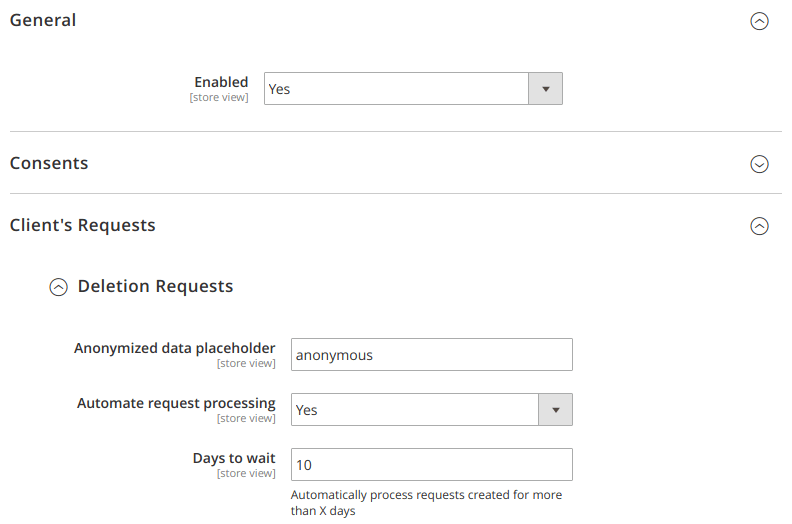
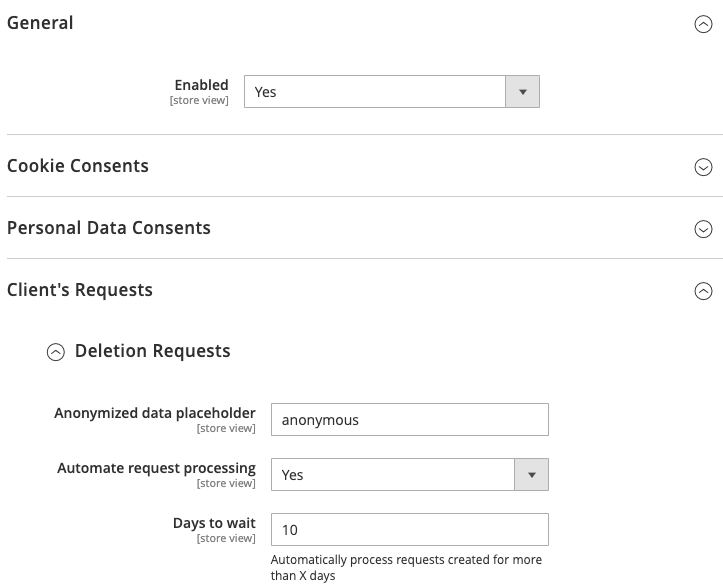
GDPR M2: docs updated

diff --git a/m2/extensions/gdpr/configuration.md b/m2/extensions/gdpr/configuration.md
@@ -20,7 +20,35 @@ Option      | Description
 ------------|------------
 Enabled     | Allows to enable/disable GDPR per store view
 
-### Consents section
+### Cookie Consent section
+
+![Cookie consents section](/images/m2/gdpr/configuration/cookie-consents.png)
+
+Option          | Description
+----------------|------------
+Enabled         | Allows to enable/disable cookie bar and cookie settings page.
+Lifetime        | How many days should the cookie store information about visitor's cookie settings.
+**Cookie Bar**  |
+Display Mode    | Select display mode for cookie bar. See details below the table.
+Content         | HTML to use in cookie bar.
+**Cookie Settings Page** |
+URL             | URL to [cookie settings page](/m2/extensions/gdpr/cookie-settings/)
+Content         | HTML code with a intro text for cookie settings page.
+
+#### Cookie bar display modes
+
+There are two display modes available to choose:
+
+ -  Minimalistic - Horizontal bar with short description, link to cookies settings
+    page, and button to allow all cookies.
+ -  Full - Wide vertical bar with short description and fully functional cookie
+    settings block, which allows granular cookie configuration.
+
+Minimalistic | Full
+-------------|---------------
+![Minimalistic](/images/m2/gdpr/frontend/small/cookie-bar-mini.png) | ![Full](/images/m2/gdpr/frontend/small/cookie-bar-full.png)
+
+### Personal Data Consents section
 
 ![Consents section](/images/m2/gdpr/configuration/consents.png)
 

diff --git a/m2/extensions/gdpr/index.md b/m2/extensions/gdpr/index.md
@@ -10,9 +10,11 @@ category: GDPR
 
 Main features:
 
- -  [Configurable consents](/m2/extensions/gdpr/configuration/#consents-section)
+ -  [Configurable consents](/m2/extensions/gdpr/configuration/#personal-data-consents-section)
     in the forms with personal data (Newsletter, Contacts, Registration,
     Product Reviews)
+ -  [Cookie consent bar](/m2/extensions/gdpr/configuration/#cookie-consent-section)
+    and [cookie settings page](/m2/extensions/gdpr/cookie-settings/)
  -  Ability to request customer account deletion from [Privacy Tools page](/m2/extensions/gdpr/privacy-tools/)
  -  Request processing [automation](/m2/extensions/gdpr/configuration/#deletion-requests)
  -  [Easily extendable](/m2/extensions/gdpr/devdocs/) by third-party modules
@@ -24,9 +26,11 @@ Main features:
  1. [Installation](installation/)
  2. [Changelog](changelog/)
  3. [Configuration](configuration/)
- 3. [Backend](backend/)
+ 4. [Backend](backend/)
+    - [Cookie Registry](backend/#cookie-registry)
     - [Accepted Consents](backend/#accepted-consents)
     - [Client's Requests](backend/#clients-requests)
- 4. [Privacy Tools](privacy-tools/)
- 5. [FAQ](faq/)
- 6. [Developers documentation](devdocs/)
+ 5. [Cookie Settings](cookie-settings/)
+ 6. [Privacy Tools](privacy-tools/)
+ 7. [FAQ](faq/)
+ 8. [Developers documentation](devdocs/)

diff --git a/m2/extensions/gdpr/backend.md b/m2/extensions/gdpr/backend.md
@@ -10,10 +10,28 @@ category: GDPR
 * TOC
 {:toc}
 
+### Cookie Registry
+
+This page is located at _Swissup GDPR > Cookie Registry_. You can register
+additional cookies, edit description of system cookies per store view, and
+create/edit cookie groups.
+
+Also you have an access to blocked cookies list at this page. This list is useful to check
+if every cookie is registered in the system and visitors can exlicitly allow or decline
+them. Normally, this list should be empty. When it's not - you should examine
+blocked cookies and add them to the registry, or remove the script that wants
+to create them.
+
+> Blocked cookies - is the list of cookies that some script was trying to create while
+> this cookie is not visible at the
+[frontend cookie settings page](/m2/extensions/gdpr/cookie-settings/).
+
+![Cookie Registry](/images/m2/gdpr/backend/cookie-registry.png)
+
 ### Accepted Consents
 
 This page is located at _Swissup > GDPR > Accepted Consents_. You can view the
-list of accepted consents on this page.
+list of accepted personal data and cookie consents on this page.
 
 ![Accepted Consents](/images/m2/gdpr/backend/accepted-consents.png)
 

diff --git a/m2/extensions/gdpr/cookie-settings.md b/m2/extensions/gdpr/cookie-settings.md
@@ -1,0 +1,23 @@
+---
+layout: default
+title: GDPR Cookie Settings Page
+description: Cookie settings page
+category: GDPR
+---
+
+# Cookie Settings
+
+Normally, cookie settings page is available at the following
+URL: `www.yoursite.com/cookie-settings/`. However, site administrator can replace
+it with another url via
+[module configuration](/m2/extensions/gdpr/configuration/#cookie-consent-section).
+
+Visitor can view the list of cookies that the site may create and decide if he wants
+to allow to use those cookies or not.
+
+![Cookie settings](/images/m2/gdpr/frontend/cookie-settings.png)
+
+#### Next up
+{:.no_toc}
+
+ -  [Back to Main Page](/m2/extensions/gdpr/)

diff --git a/m2/extensions/gdpr/privacy-tools.md b/m2/extensions/gdpr/privacy-tools.md
@@ -10,7 +10,8 @@ category: GDPR
 Registered customers can find "Privacy Tools" page at their account navigation
 panel, or by opening a direct link: `www.yoursite.com/privacy-tools/customer/`.
 
-Customer can view the list of given consents and request account removal on this page.
+Customer can view the list of given consents, manage cookie settings, and
+request account removal on this page.
 
 {% include gallery.html images=site.data.gallery.m2.gdpr.privacy-tools class="scroll phone-up-1 tablet-up-3 photoswipe" %}
 

diff --git a/m2/extensions/gdpr/devdocs.md b/m2/extensions/gdpr/devdocs.md
@@ -106,7 +106,7 @@ your form.
     ```
 
  3. Check if everything works as expected. You should now see your form in the
-    [consents configuration](/m2/extensions/gdpr/configuration/#consents-section)
+    [consents configuration](/m2/extensions/gdpr/configuration/#personal-data-consents-section)
  4. Using GDPR configuration, activate some consent for your form and check the
     frontend. Client-side and server-side validations will work automatically!
  5. After the form is submitted with accepted consent, check

diff --git a/m2/extensions/gdpr/changelog.md b/m2/extensions/gdpr/changelog.md
@@ -10,7 +10,9 @@ category: GDPR
 
 ### Version 1.4.0
 
-> Draft
+> Apr 17, 2020
+
+{% include gallery.html images=site.data.gallery.m2.gdpr.changelog.v140 class="phone-up-2 tablet-up-3 photoswipe scroll" %}
 
 **Cookie consent feature added. Here is some highlights of the new feature:**
 
